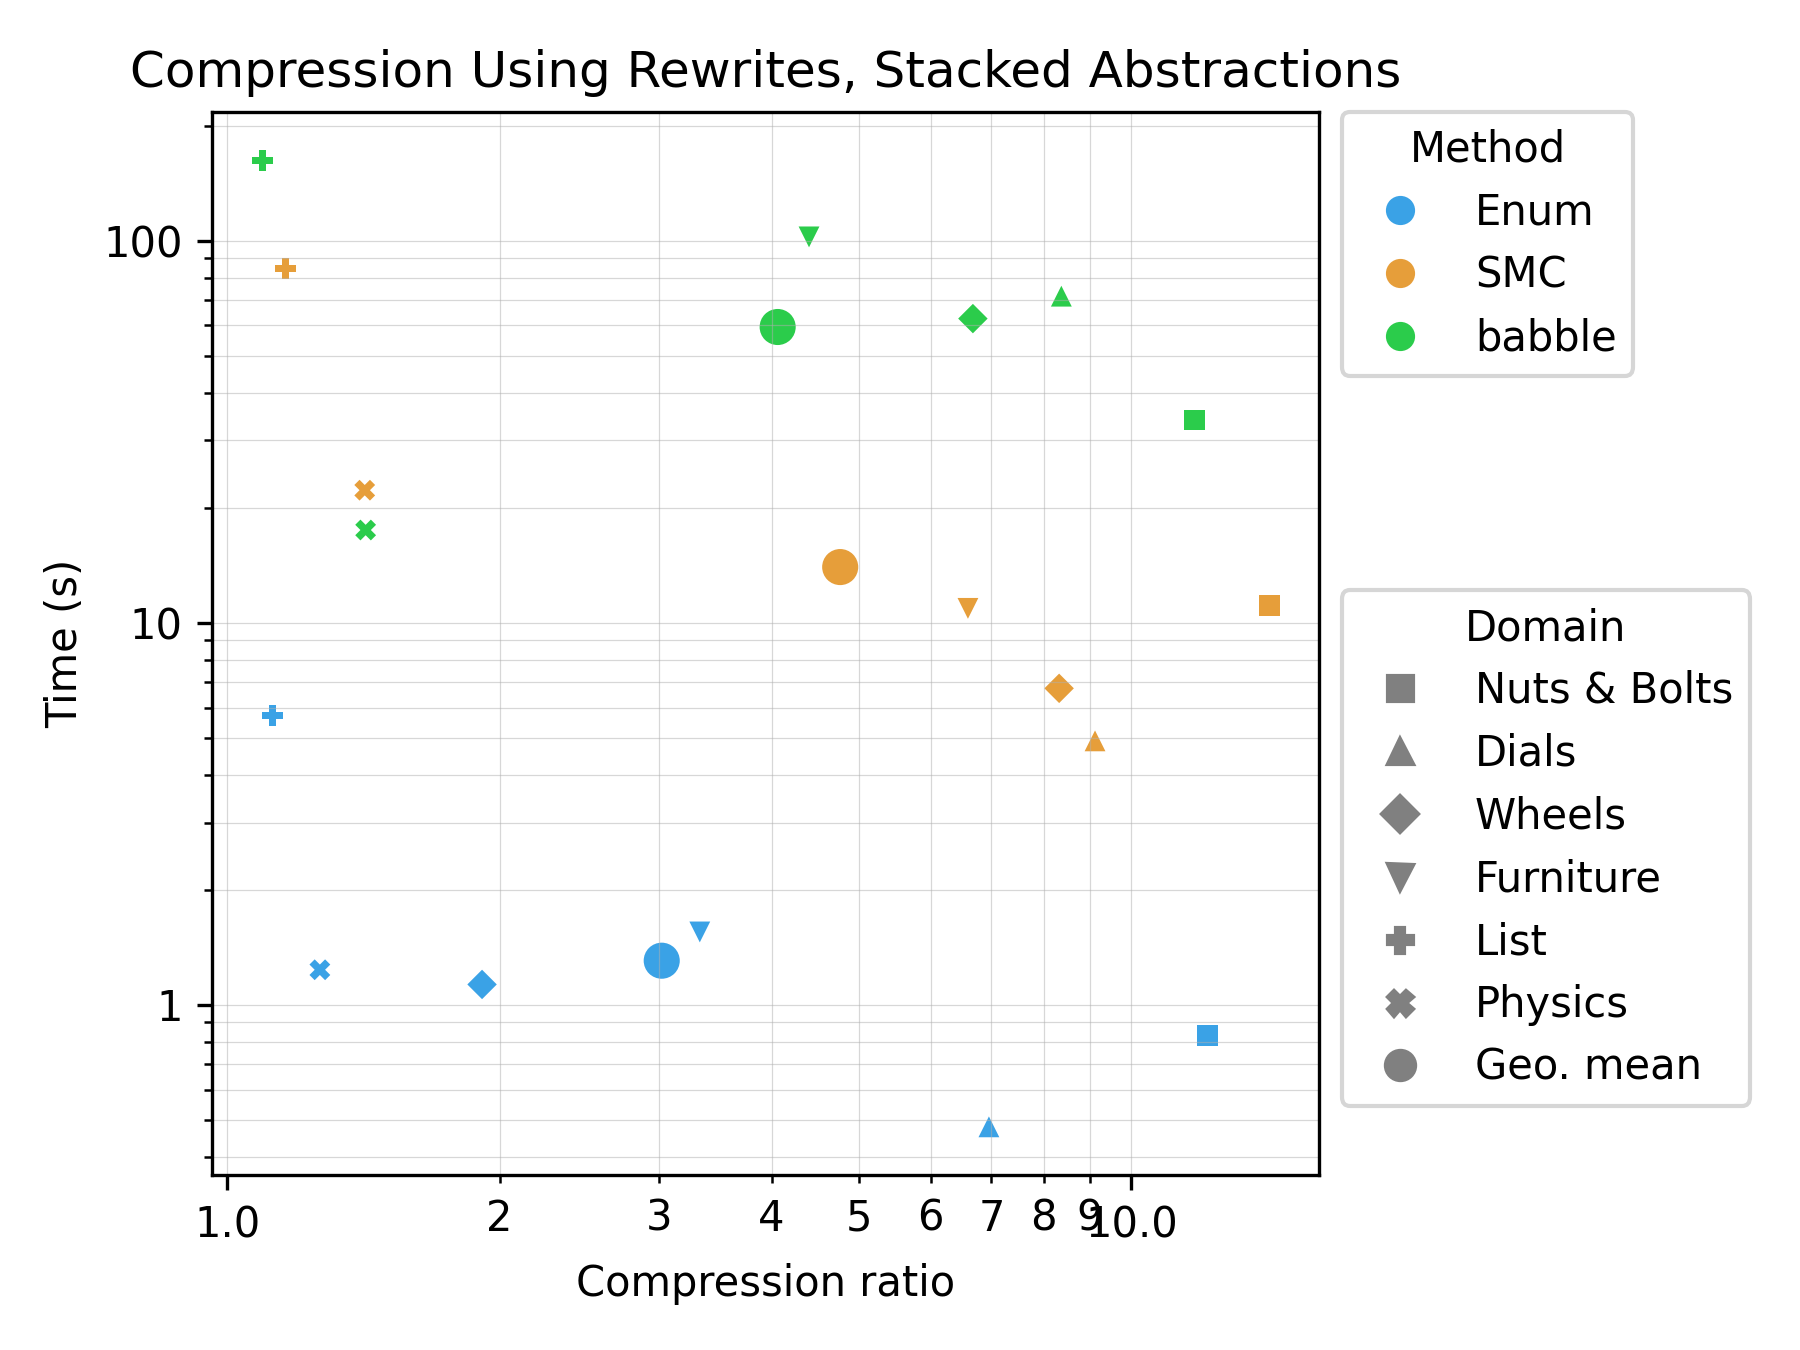
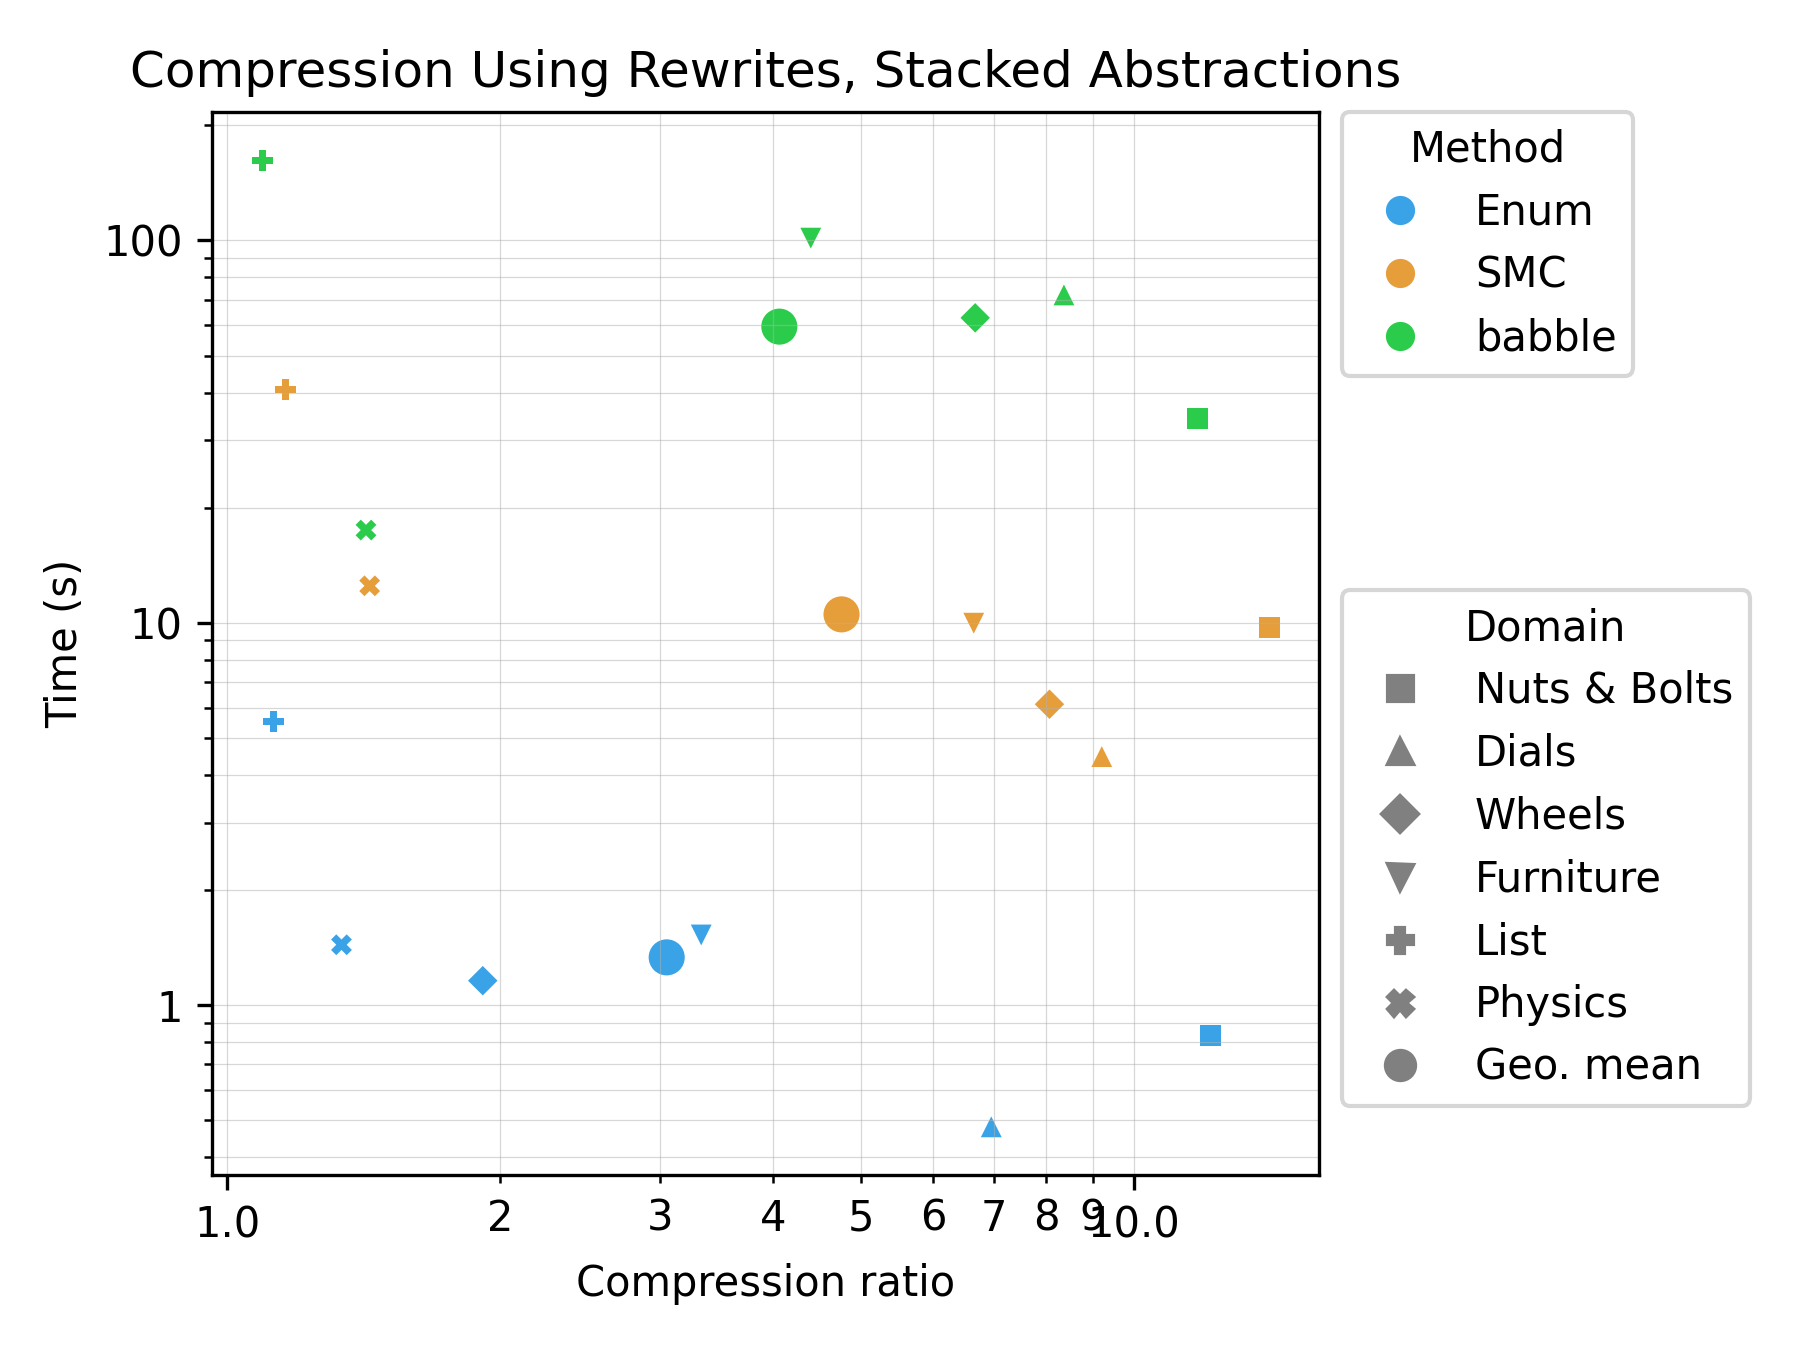
update tables

diff --git a/figures/table2.tex b/figures/table2.tex
@@ -6,16 +6,16 @@
 \cmidrule(lr){2-2} \cmidrule(lr){3-6} \cmidrule(lr){7-10}
 Domain & Original & Enum & SMC & babble & Stitch & Enum & SMC & babble & Stitch \\
 \midrule
-Nuts \& Bolts & 19008 & 1.29 & 1.70 & 1.67 & \textbf{1.77} & \textbf{0.036} & 0.141 & 3.628 & 0.044 \\
-Dials & 35712 & 1.22 & 1.23 & 1.26 & \textbf{1.26} & \textbf{0.070} & 0.253 & 18.356 & 0.109 \\
-Wheels & 35426 & 1.22 & \textbf{1.24} & 1.14 & \textbf{1.24} & \textbf{0.106} & 0.196 & 9.190 & 0.110 \\
-Furniture & 42935 & 1.15 & \textbf{1.38} & 1.25 & \textbf{1.38} & \textbf{0.116} & 0.639 & 22.851 & 0.151 \\
-List & 523 & 1.04 & 1.04 & 1.03 & \textbf{1.05} & 0.535 & 5.611 & 12.263 & \textbf{0.218} \\
-Physics & 518 & 1.05 & 1.06 & 1.04 & \textbf{1.07} & 0.108 & 1.439 & 1.578 & \textbf{0.058} \\
-Text & 387 & 1.05 & 1.07 & 1.05 & \textbf{1.07} & 0.412 & 5.298 & 7.966 & \textbf{0.197} \\
-Logo & 908 & 1.09 & 1.08 & 1.05 & \textbf{1.10} & 0.183 & 1.582 & 4.662 & \textbf{0.067} \\
-Towers & 495 & 1.18 & 1.17 & 1.16 & \textbf{1.25} & 0.177 & 1.691 & 2.666 & \textbf{0.060} \\
+Nuts \& Bolts & 19008 & 1.29 & 1.64 & 1.67 & \textbf{1.77} & \textbf{0.036} & 0.096 & 3.628 & 0.044 \\
+Dials & 35712 & 1.22 & 1.23 & 1.26 & \textbf{1.26} & \textbf{0.069} & 0.160 & 18.053 & 0.108 \\
+Wheels & 35426 & 1.22 & \textbf{1.24} & 1.14 & \textbf{1.24} & 0.107 & \textbf{0.070} & 9.208 & 0.109 \\
+Furniture & 42935 & 1.15 & \textbf{1.38} & 1.25 & \textbf{1.38} & \textbf{0.115} & 0.480 & 22.620 & 0.149 \\
+List & 523 & 1.04 & 1.04 & 1.03 & \textbf{1.05} & 0.516 & 2.840 & 12.215 & \textbf{0.218} \\
+Physics & 518 & 1.05 & 1.06 & 1.04 & \textbf{1.07} & 0.106 & 0.824 & 1.563 & \textbf{0.057} \\
+Text & 387 & 1.05 & 1.06 & 1.05 & \textbf{1.07} & 0.400 & 3.033 & 7.926 & \textbf{0.195} \\
+Logo & 908 & 1.09 & 1.08 & 1.05 & \textbf{1.10} & 0.177 & 0.897 & 4.684 & \textbf{0.066} \\
+Towers & 495 & 1.18 & 1.17 & 1.16 & \textbf{1.25} & 0.172 & 0.995 & 2.644 & \textbf{0.060} \\
 \midrule
-Geo. mean &  & 1.14 & 1.21 & 1.17 & \textbf{1.23} & 0.143 & 0.928 & 6.689 & \textbf{0.097} \\
+Geo. mean &  & 1.14 & 1.20 & 1.17 & \textbf{1.23} & 0.140 & 0.529 & 6.654 & \textbf{0.097} \\
 \bottomrule
 \end{tabular}

diff --git a/figures/table4.tex b/figures/table4.tex
@@ -6,16 +6,16 @@
 \cmidrule(lr){2-2} \cmidrule(lr){3-6} \cmidrule(lr){7-10}
 Domain & Original & Enum & SMC & babble & Stitch & Enum & SMC & babble & Stitch \\
 \midrule
-Nuts \& Bolts & 19008 & 1.66 & 13.64 & 9.40 & \textbf{14.86} & 0.800 & 1.916 & 14.031 & \textbf{0.097} \\
-Dials & 35712 & 5.17 & 6.33 & 5.62 & \textbf{7.94} & 0.724 & 5.836 & 77.362 & \textbf{0.447} \\
-Wheels & 35426 & 2.90 & \textbf{6.55} & 5.56 & 6.17 & 2.523 & 9.311 & 62.447 & \textbf{0.415} \\
-Furniture & 42935 & 3.26 & 6.36 & 4.02 & \textbf{6.64} & 1.783 & 10.750 & 127.888 & \textbf{0.582} \\
-List & 523 & 1.12 & 1.15 & 1.09 & \textbf{1.18} & 5.087 & 81.920 & 154.350 & \textbf{1.664} \\
-Physics & 518 & 1.27 & 1.41 & 1.43 & \textbf{1.43} & 1.029 & 20.911 & 13.309 & \textbf{0.372} \\
-Text & 387 & 1.30 & 1.36 & 1.24 & \textbf{1.36} & 3.841 & 69.632 & 86.422 & \textbf{1.091} \\
-Logo & 908 & 1.61 & 1.62 & 1.37 & \textbf{1.64} & 1.880 & 21.770 & 51.572 & \textbf{0.392} \\
-Towers & 495 & 1.58 & 1.63 & 1.42 & \textbf{1.63} & 1.381 & 21.188 & 23.347 & \textbf{0.292} \\
+Nuts \& Bolts & 19008 & 1.66 & 13.43 & 9.40 & \textbf{14.86} & 0.785 & 1.446 & 14.006 & \textbf{0.097} \\
+Dials & 35712 & 5.17 & 6.43 & 5.62 & \textbf{7.94} & 0.720 & 5.183 & 77.052 & \textbf{0.452} \\
+Wheels & 35426 & 2.90 & \textbf{6.59} & 5.56 & 6.17 & 2.527 & 8.329 & 62.442 & \textbf{0.412} \\
+Furniture & 42935 & 3.26 & 6.28 & 4.02 & \textbf{6.64} & 1.768 & 9.814 & 126.371 & \textbf{0.584} \\
+List & 523 & 1.12 & 1.15 & 1.09 & \textbf{1.18} & 4.914 & 38.551 & 153.915 & \textbf{1.668} \\
+Physics & 518 & 1.31 & 1.43 & 1.43 & \textbf{1.43} & 1.121 & 12.000 & 13.269 & \textbf{0.368} \\
+Text & 387 & 1.31 & \textbf{1.36} & 1.24 & 1.36 & 3.732 & 39.444 & 86.176 & \textbf{1.080} \\
+Logo & 908 & 1.59 & 1.62 & 1.37 & \textbf{1.64} & 1.773 & 9.745 & 51.379 & \textbf{0.388} \\
+Towers & 495 & 1.58 & 1.63 & 1.42 & \textbf{1.63} & 1.327 & 11.540 & 23.248 & \textbf{0.291} \\
 \midrule
-Geo. mean &  & 1.94 & 3.02 & 2.54 & \textbf{3.14} & 1.726 & 15.807 & 49.709 & \textbf{0.454} \\
+Geo. mean &  & 1.94 & 3.03 & 2.54 & \textbf{3.14} & 1.706 & 10.258 & 49.518 & \textbf{0.452} \\
 \bottomrule
 \end{tabular}

diff --git a/figures/table3.tex b/figures/table3.tex
@@ -6,13 +6,13 @@
 \cmidrule(lr){2-3} \cmidrule(lr){4-7} \cmidrule(lr){8-11}
 Domain & Original & E-graph min & Enum & SMC & babble & Stitch & Enum & SMC & babble & Stitch \\
 \midrule
-Nuts \& Bolts & 19008 & 19009 & 12.13 & \textbf{14.21} & 11.76 & N/A & \textbf{0.831} & 11.079 & 33.939 & N/A \\
-Dials & 35712 & 20583 & 6.96 & \textbf{9.12} & 8.37 & N/A & \textbf{0.479} & 4.908 & 71.592 & N/A \\
-Wheels & 35426 & 30257 & 1.91 & \textbf{8.32} & 6.68 & N/A & \textbf{1.131} & 6.736 & 62.541 & N/A \\
-Furniture & 42935 & 37028 & 3.33 & \textbf{6.60} & 4.40 & N/A & \textbf{1.551} & 10.906 & 102.324 & N/A \\
-List & 523 & 523 & 1.12 & \textbf{1.16} & 1.09 & N/A & \textbf{5.712} & 84.415 & 162.337 & N/A \\
-Physics & 518 & 519 & 1.27 & 1.42 & \textbf{1.42} & N/A & \textbf{1.235} & 22.233 & 17.489 & N/A \\
+Nuts \& Bolts & 19008 & 19009 & 12.13 & \textbf{14.09} & 11.76 & N/A & \textbf{0.834} & 9.729 & 34.219 & N/A \\
+Dials & 35712 & 20583 & 6.96 & \textbf{9.21} & 8.37 & N/A & \textbf{0.480} & 4.465 & 72.010 & N/A \\
+Wheels & 35426 & 30257 & 1.91 & \textbf{8.07} & 6.68 & N/A & \textbf{1.158} & 6.121 & 62.730 & N/A \\
+Furniture & 42935 & 37028 & 3.33 & \textbf{6.65} & 4.40 & N/A & \textbf{1.525} & 9.971 & 101.377 & N/A \\
+List & 523 & 523 & 1.12 & \textbf{1.16} & 1.09 & N/A & \textbf{5.508} & 40.842 & 161.992 & N/A \\
+Physics & 518 & 519 & 1.34 & \textbf{1.44} & 1.42 & N/A & \textbf{1.438} & 12.490 & 17.473 & N/A \\
 \midrule
-Geo. mean &  &  & 3.02 & \textbf{4.76} & 4.06 & N/A & \textbf{1.305} & 13.990 & 59.450 & N/A \\
+Geo. mean &  &  & 3.05 & \textbf{4.76} & 4.06 & N/A & \textbf{1.333} & 10.516 & 59.496 & N/A \\
 \bottomrule
 \end{tabular}

diff --git a/figures/table1.tex b/figures/table1.tex
@@ -6,13 +6,13 @@
 \cmidrule(lr){2-3} \cmidrule(lr){4-7} \cmidrule(lr){8-11}
 Domain & Original & E-graph min & Enum & SMC & babble & Stitch & Enum & SMC & babble & Stitch \\
 \midrule
-Nuts \& Bolts & 19008 & 19009 & 1.24 & 1.68 & \textbf{1.75} & N/A & \textbf{0.213} & 0.616 & 19.223 & N/A \\
-Dials & 35712 & 20583 & 2.07 & 2.08 & \textbf{2.17} & N/A & \textbf{0.043} & 0.303 & 47.113 & N/A \\
-Wheels & 35426 & 30257 & \textbf{1.45} & \textbf{1.45} & 1.36 & N/A & \textbf{0.105} & 0.228 & 16.767 & N/A \\
-Furniture & 42935 & 37028 & 1.31 & \textbf{1.70} & 1.39 & N/A & \textbf{0.097} & 0.535 & 26.400 & N/A \\
-List & 523 & 523 & 1.04 & \textbf{1.04} & 1.03 & N/A & \textbf{0.625} & 6.279 & 12.900 & N/A \\
-Physics & 518 & 519 & 1.06 & \textbf{1.07} & 1.05 & N/A & \textbf{0.135} & 1.537 & 2.151 & N/A \\
+Nuts \& Bolts & 19008 & 19009 & 1.24 & 1.68 & \textbf{1.75} & N/A & \textbf{0.214} & 0.542 & 19.260 & N/A \\
+Dials & 35712 & 20583 & 2.07 & 2.08 & \textbf{2.17} & N/A & \textbf{0.044} & 0.365 & 47.205 & N/A \\
+Wheels & 35426 & 30257 & \textbf{1.45} & \textbf{1.45} & 1.36 & N/A & 0.108 & \textbf{0.085} & 16.717 & N/A \\
+Furniture & 42935 & 37028 & 1.31 & \textbf{1.70} & 1.39 & N/A & \textbf{0.097} & 0.376 & 26.381 & N/A \\
+List & 523 & 523 & 1.04 & \textbf{1.04} & 1.03 & N/A & \textbf{0.605} & 3.559 & 12.900 & N/A \\
+Physics & 518 & 519 & 1.06 & \textbf{1.07} & 1.05 & N/A & \textbf{0.131} & 0.866 & 2.139 & N/A \\
 \midrule
-Geo. mean &  &  & 1.32 & \textbf{1.46} & 1.41 & N/A & \textbf{0.141} & 0.777 & 14.941 & N/A \\
+Geo. mean &  &  & 1.32 & \textbf{1.46} & 1.41 & N/A & \textbf{0.141} & 0.519 & 14.927 & N/A \\
 \bottomrule
 \end{tabular}
